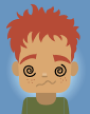
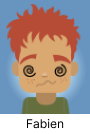
New imgs with names + new character imgs

diff --git a/packages/client/src/main.ts b/packages/client/src/main.ts
@@ -1,8 +1,6 @@
 import * as PIXI from 'pixi.js';
 import { Spritesheet } from 'pixi.js';
 
-import nameArray from './charNames';
-
 let sheet: Spritesheet | undefined;
 
 var app = new PIXI.Application({
@@ -64,22 +62,11 @@ function spritesLoaded() {
   for (let x = 0; x < 7; x++) {
     for (let y = 0; y < 3; y++) {
       if (textures) {
-        let text = new PIXI.Text(nameArray[imgIndex], {
-          fontFamily: 'Arial',
-          fontSize: 24,
-          fill: 0x000,
-          align: 'center',
-        });
-
         const texture = PIXI.Sprite.from(textures[imgIndex]);
         texture.interactive = true;
         texture.buttonMode = true;
 
         let isChecked = false;
-
-        text.position.x = x * boxWidth + x + 1 * 50;
-        text.position.y = y * boxHeight + y + 1 * 20;
-        app.stage.addChild(text);
 
         texture.position.x = x * boxWidth + x + 1 * gap;
         texture.position.y = y * boxHeight + y + 1 * gap;
